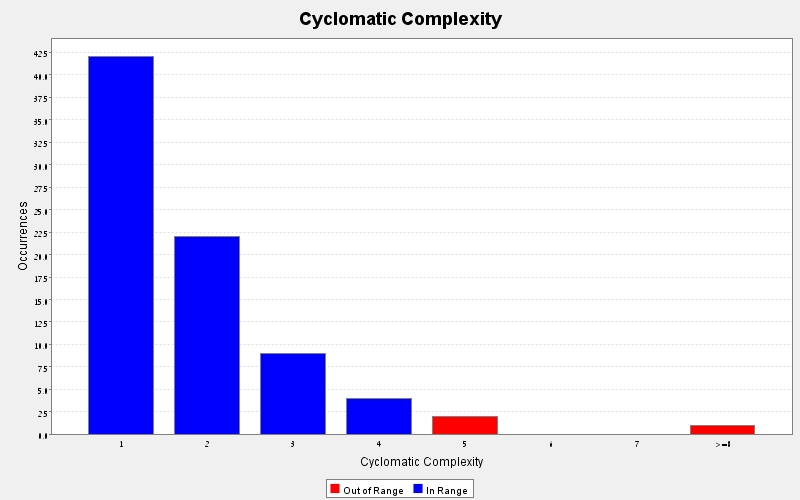
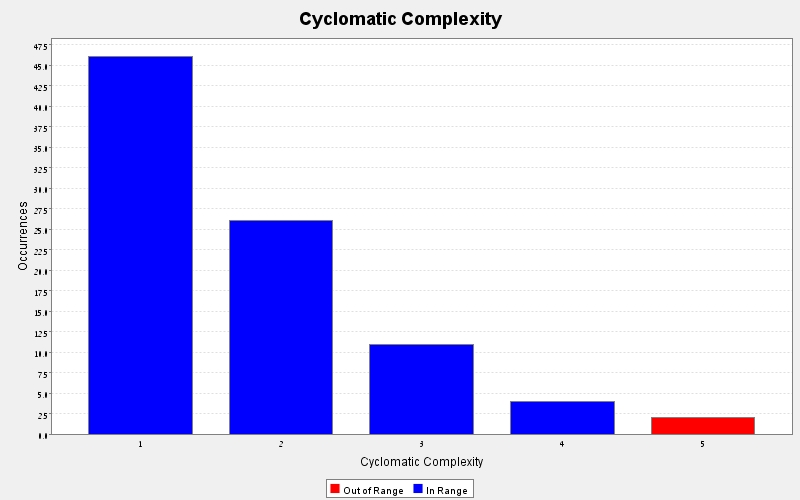
fixed VirtuClassClientChat bad smells

diff --git a/Code/VirtuClassClient/src/connectionLayer/VirtuClassClientChat.java b/Code/VirtuClassClient/src/connectionLayer/VirtuClassClientChat.java
@@ -11,137 +11,151 @@ import logicLayer.OpenClassroom;
 
 public class VirtuClassClientChat implements Runnable {
 
-	// The client socket
-	private static Socket clientSocket = null;
-	// The output stream
-	private static DataOutputStream os = null;
-	// The input stream
-	private static DataInputStream is = null;
 
-	//private static BufferedReader inputLine = null;
 	private static boolean closed = false;
-	private OpenClassroom op;
-	public String comingChat=""; 
-	//private static EditorFrame editor;
+	private VirtuClassClientChatData data = new VirtuClassClientChatData(null,
+			null, null);
 
-	
-	private VirtuClassClientChat(OpenClassroom op, int a)
-	{
-		this.op=op;
-		
-	}
+
 	public VirtuClassClientChat(OpenClassroom op) {
 
-		this.op=op;	
-		
+		this.data.op=op;	
+
 		// The default port.
 		int portNumber = 8888;
 		// The default host.
 		String host = "localhost";// can be ip address
 
-
-
 		/*
 		 * Open a socket on a given host and port. Open input and output streams.
 		 */
-		try {
-			clientSocket = new Socket(host, portNumber);
-//			inputLine = new BufferedReader(new InputStreamReader(System.in));
-			os = new DataOutputStream(clientSocket.getOutputStream());
-			is = new DataInputStream(clientSocket.getInputStream());
-		} catch (UnknownHostException e) {
-			System.err.println("Don't know about host " + host);
-		} catch (IOException e) {
-			System.err.println("Couldn't get I/O for the connection to the host "
-					+ host);
-		}
+		initializeSocketAndStreams(portNumber, host);
 
 
 		/*
 		 * If everything has been initialized then we want to write some data to the
 		 * socket we have opened a connection to on the port portNumber.
 		 */
-		if (clientSocket != null && os != null && is != null) {
-			try {
-
-				/* Create a thread to read from the server. */
-				new Thread(new VirtuClassClientChat(op, 0)).start();
-	
-				while (!closed) {
-		//			EditorFrame editor=EditorFrame.getEditor();
-		//			String inputFromEditor = editor.getText();
-					
-				//	String input=inputLine.readLine().trim();
-					//Thread t = new  Thread(new Runnable() {
-						
-
-					synchronized(op){
-						try {
-							op.wait();
-						} catch (InterruptedException e) {
-							// TODO Auto-generated catch block
-							e.printStackTrace();
-						}
-					}
-					if(closed)
-						break;
-					String a = op.ei.getText();
-					os.writeUTF(a);
-					
-				}
-				/*
-				 * Close the output stream, close the input stream, close the socket.
-				 */
-				os.close();
-				is.close();
-				clientSocket.close();
-			} catch (IOException e) {
-				System.err.println("IOException:  " + e);
-			}
-		}
+		startChat(op);
 
 	}
 	
-//	private VirtuClassClientChat()
-//	{
-//	
-//	}
+	private VirtuClassClientChat(VirtuClassClientChatData data)
+	{
+		this.data=data;
+
+	}
+	
 	/*
 	 * Create a thread to read from the server. (non-Javadoc)
-	 * 
-	 * @see java.lang.Runnable#run()
 	 */
-	//@SuppressWarnings("deprecation")
 	public void run() {
 		/*
 		 * Keep on reading from the socket till we receive "Bye" from the
 		 * server. Once we received that then we want to break.
 		 */
-		String responseLine;
 		try {
-			while ((responseLine = is.readUTF()) != null && !responseLine.equals("/quit")) {
-				//comingChat=responseLine;
-
-				//System.out.println(responseLine);
-				OpenClassroom op1=op;
-				if(op1==null)
-					System.out.println("OP IS NULL2");
-				op.ei.setText(responseLine);
-	//			lastStringRead+=responseLine+"\n";
-//				System.out.println(responseLine);
-//				EditorFrame editor = EditorFrame.getEditor();
-//				if(editor==null)
-//					System.out.println("editor is null!!");
-//				else
-//					editor.setText(responseLine);
-//				if (responseLine.indexOf("*** Bye") != -1)
-//					break;
-			}
+			readChat();
 			closed = true;
 		} catch (Exception e) {
 			e.printStackTrace();
 		}
 	}
+	
+	/**
+	 * @param op
+	 */
+	private void startChat(OpenClassroom op) {
+		if (data.clientSocket != null && data.os != null && data.is != null) {
+			try {
+
+				/* Create a thread to read from the server. */
+				new Thread(new VirtuClassClientChat(data)).start();
+
+				writeChat(op);
+				/*
+				 * Close the output stream, close the input stream, close the socket.
+				 */
+				closeChat();
+			} catch (IOException e) {
+				System.err.println("IOException:  " + e);
+			}
+		}
+	}
+	/**
+	 * @throws IOException
+	 */
+	private void closeChat() throws IOException {
+		data.os.close();
+		data.is.close();
+		data.clientSocket.close();
+	}
+	/**
+	 * @param op
+	 * @throws IOException
+	 */
+	private void writeChat(OpenClassroom op) throws IOException {
+		while (!closed) {
+
+			synchronized(op){
+				try {
+					op.wait();
+				} catch (InterruptedException e) {
+					// TODO Auto-generated catch block
+					e.printStackTrace();
+				}
+			}
+			if(closed)
+				break;
+			String a = op.ei.getText();
+			data.os.writeUTF(a);
+
+		}
+	}
+	/**
+	 * @param portNumber
+	 * @param host
+	 */
+	private void initializeSocketAndStreams(int portNumber, String host) {
+		try {
+			data.clientSocket = new Socket(host, portNumber);
+			//			inputLine = new BufferedReader(new InputStreamReader(System.in));
+			data.os = new DataOutputStream(data.clientSocket.getOutputStream());
+			data.is = new DataInputStream(data.clientSocket.getInputStream());
+		} catch (UnknownHostException e) {
+			System.err.println("Don't know about host " + host);
+		} catch (IOException e) {
+			System.err.println("Couldn't get I/O for the connection to the host "
+					+ host);
+		}
+	}
+
+
+	/**
+	 * @throws IOException
+	 */
+	private void readChat() throws IOException {
+		String responseLine;
+		while ((responseLine = data.is.readUTF()) != null && !responseLine.equals("/quit")) {
+			
+			data.op.ei.setText(responseLine);
+		}
+	}
+	
+	private static class VirtuClassClientChatData {
+		private Socket clientSocket;
+		private DataOutputStream os;
+		private DataInputStream is;
+		private OpenClassroom op;
+
+		private VirtuClassClientChatData(Socket clientSocket,
+				DataOutputStream os, DataInputStream is) {
+			this.clientSocket = clientSocket;
+			this.os = os;
+			this.is = is;
+		}
+	}
+
 }
 
 
